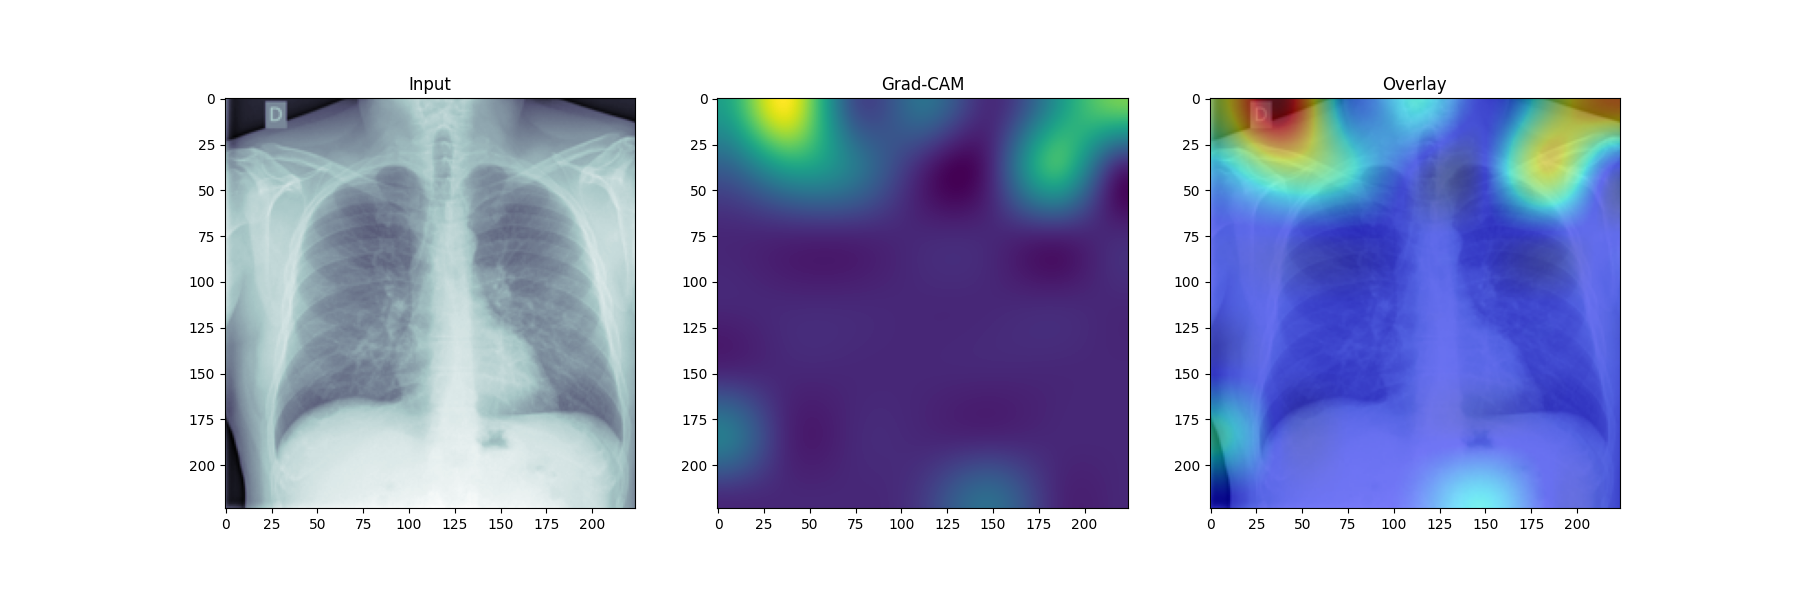
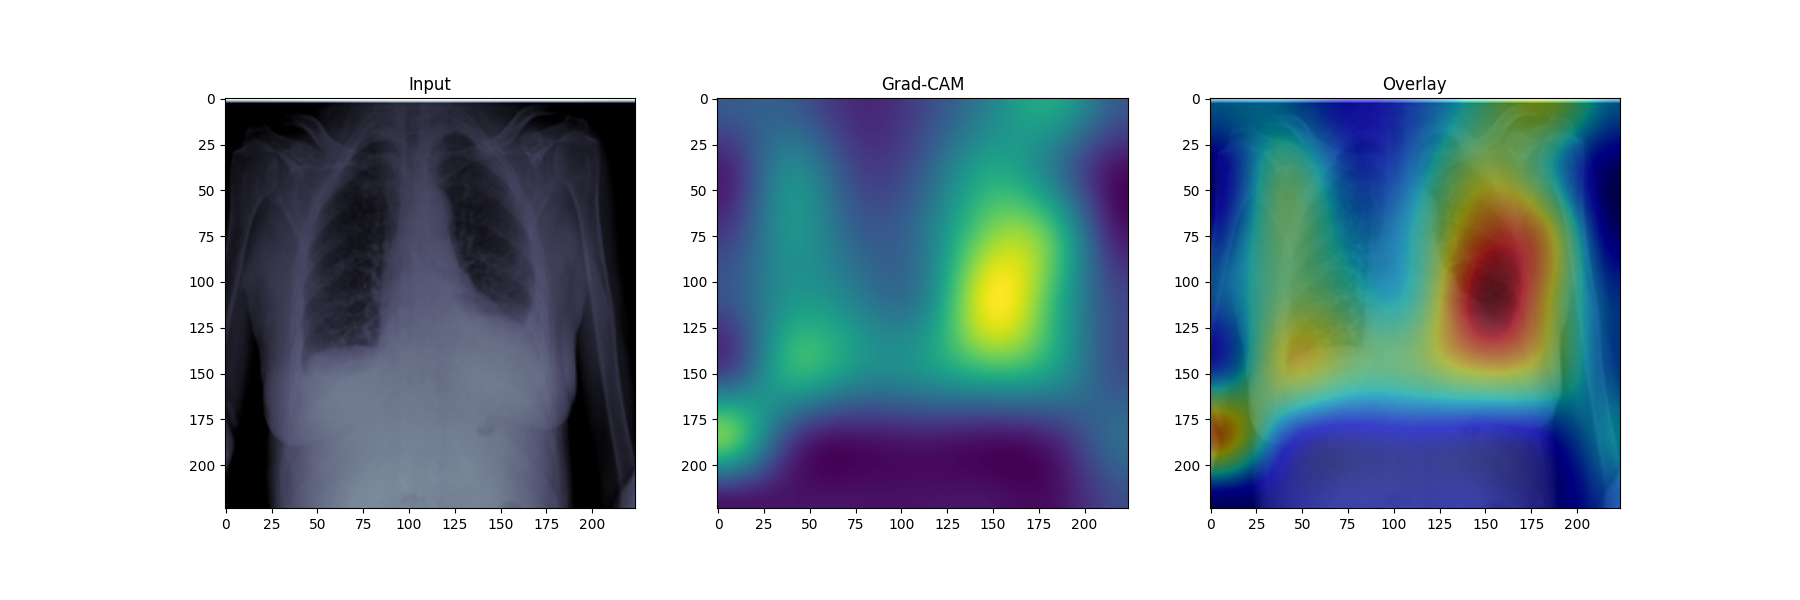
ye

diff --git a/kaggle/classification/evaluate.py b/kaggle/classification/evaluate.py
@@ -76,7 +76,7 @@ def create_gradCAMs(args):
     ];
 
     # reading image
-    img = Image.open("/data/kaggle_data/class_formatted/test/no_pneumonia/ec7686c519bf-21600dce0640-cfaa674d0add.png");
+    img = Image.open("/data/kaggle_data/class_formatted/test/atypical_appearance/7fac35c9e1f4-83ca59b7b00a-8c313f2bf15f.png");
 
     # numpy
     img = numpy.array(img.convert("RGB"));
